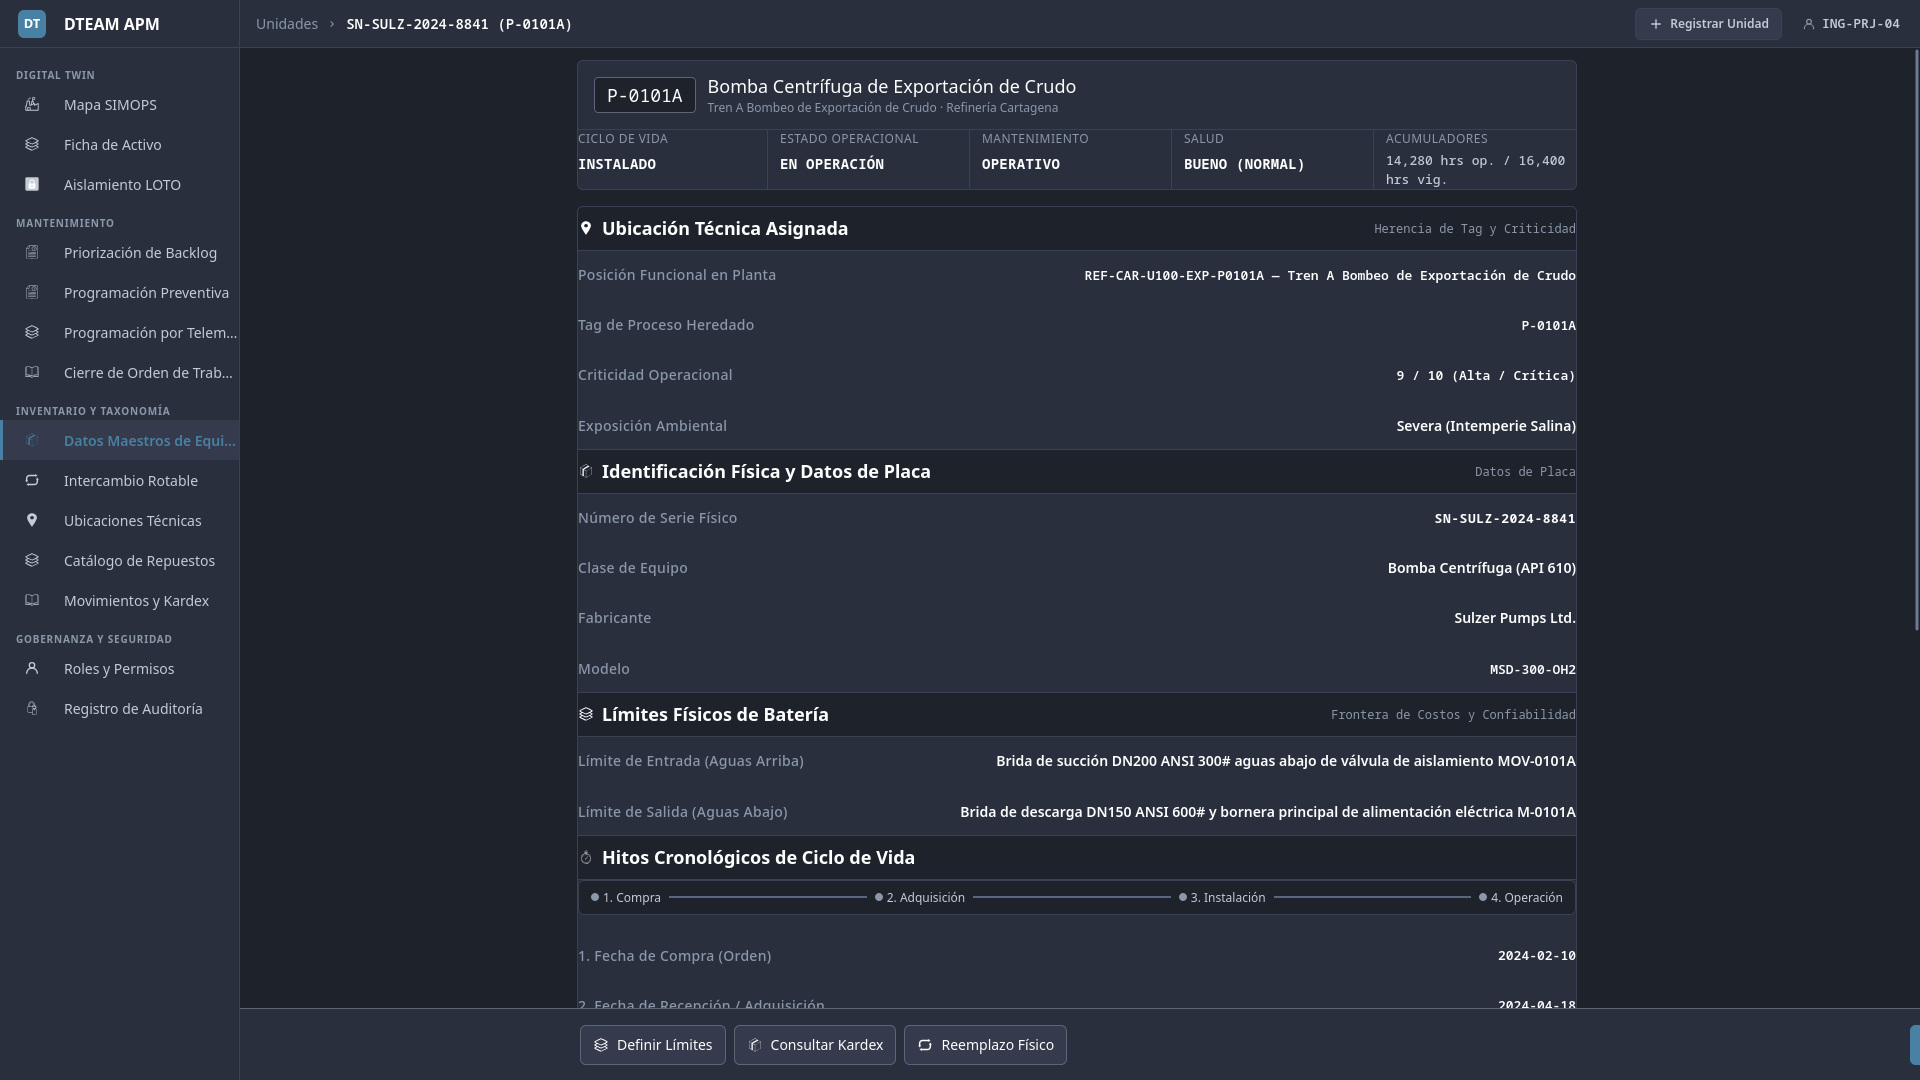
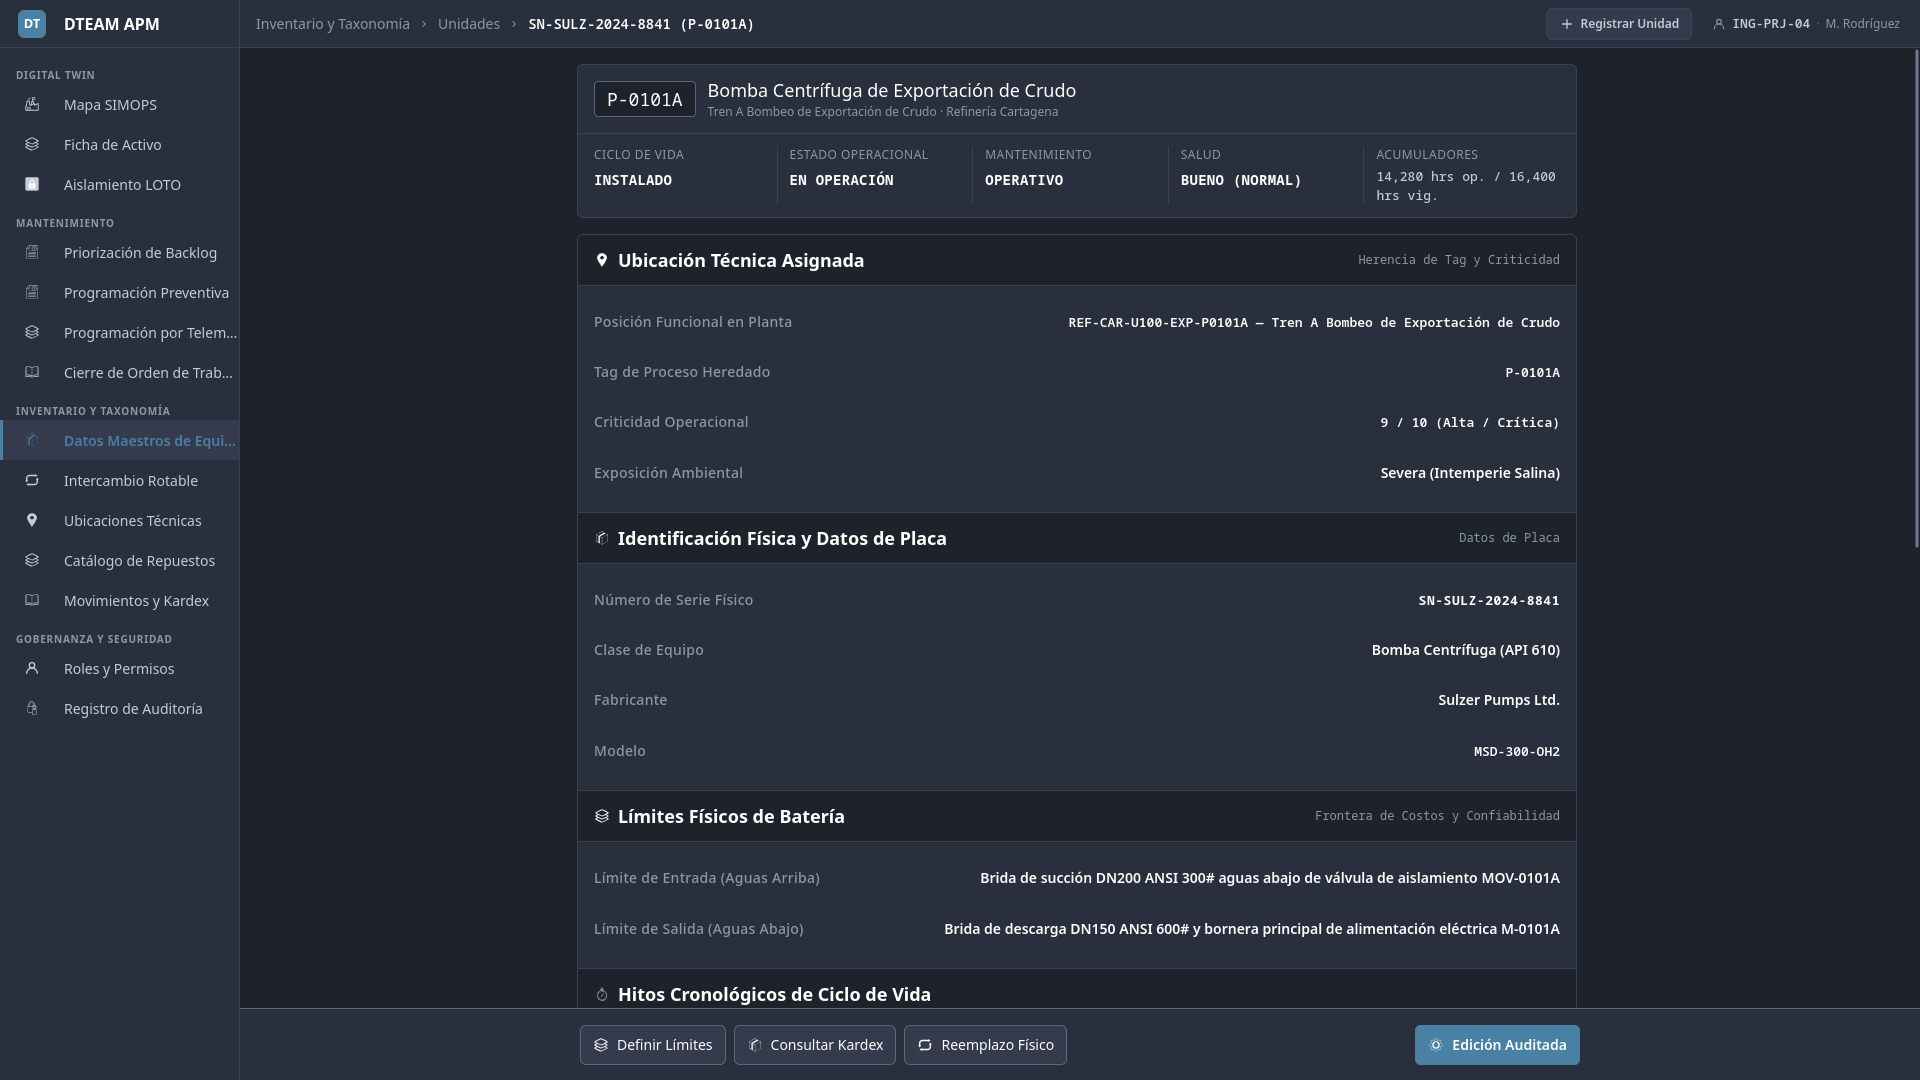
docs(ui-ux): register layout sidebar tokens and finalize screen specification sanitation

diff --git a/ui-ux/assets/tokens.css b/ui-ux/assets/tokens.css
@@ -73,6 +73,9 @@
   --dt-breakpoint-xl: 1920px;
 
   /* Structural layout and drawer dimensions */
+  --dt-layout-sidebar-width-expanded: 240px;
+  --dt-layout-sidebar-width-collapsed: 64px;
+  --dt-layout-table-row-height: 44px;
   --dt-layout-drawer-width-desktop: 440px;
   --dt-layout-drawer-width-tablet: 320px;
   --dt-layout-drawer-width: var(--dt-layout-drawer-width-tablet);

diff --git a/ui-ux/screens/mtto/SCR-MTTO-026.md b/ui-ux/screens/mtto/SCR-MTTO-026.md
@@ -13,7 +13,7 @@ user_stories:
   - MTTO-026
 use_cases:
   - UC-MTTO-026
-version: 1.2
+version: 1.3
 date: 2026-10-26
 status: Stable
 ---
@@ -47,7 +47,7 @@ status: Stable
 
 | ID | Control / Component | Visual Role / Content | Semantic Token | Architectural Role & Reference |
 | :--- | :--- | :--- | :--- | :--- |
-| `CMP-01` | Web Portal Shell & Sidebar | Collapsible navigation sidebar | Surface: `--dt-color-surface-base`<br>Border: `--dt-color-border-subtle` | Hosts global module navigation (Digital Twin, Maintenance, Inventory, Governance per [DT-UI-NAV-DOC-001](../../DT-UI-NAV-DOC-001.md)). Highlights "Priorización de Backlog" as the active route. Responsive widths governed in Section 8. |
+| `CMP-01` | Web Portal Shell & Sidebar | Collapsible navigation sidebar | Surface: `--dt-color-surface-base`<br>Border: `--dt-color-border-subtle` | Hosts global module navigation (Digital Twin, Maintenance, Inventory, Governance per [DT-UI-NAV-DOC-001](../../DT-UI-NAV-DOC-001.md)). Highlights "Backlog Prioritization" as the active route. Responsive widths governed in Section 8. |
 | `CMP-02` | Top Workstation Header | Breadcrumb trail, search, governance notifications, and user badge | Surface: `--dt-color-surface-card`<br>Border: `--dt-color-border-subtle` | Sticky header hosting breadcrumbs, quick search trigger (`Ctrl + K`), immutable audit log trigger, unconfigured criticality alert button (`CMP-06`), and standardized operator session badge. |
 | `CMP-03` | KPI Summary Metric Cards | 5-card interactive filter & summary bar | Surface: `--dt-color-surface-card`<br>Border: `--dt-color-border-subtle`<br>Radius: `--dt-radius-md` | Displays aggregate counters across the 4 RIME priority bands plus total pending count. Serves as the sole interactive priority band filter for the data grid, preventing redundant filter chip rows. Detailed in §5.1. |
 | `CMP-04` | Multi-Criteria Filter Toolbar | Flat canvas toolbar with dropdowns, search input, and inline grouping pill | Surface: `--dt-color-surface-base`<br>Controls: `--dt-color-surface-card`<br>Border: `--dt-color-border-subtle` | Hosts Functional Location hierarchy dropdown, Work Class selector, live text search, and the inline equipment grouping suggestion pill (`CMP-05`) directly on the canvas without outer box nesting or vertical layout shift. Specification in §5.2. |
@@ -449,8 +449,8 @@ public record RimeCalculationBreakdownDto(
 
 | Viewport / Breakpoint | Layout Organization | Ergonomic Rules |
 | :--- | :--- | :--- |
-| **Desktop Workstation**<br>($\ge 1920\text{px}$, `--dt-breakpoint-xl`) | Full workstation grid layout. Navigation sidebar expanded ($240\text{px}$); 5 summary KPI cards in a single row; 10-column data grid with all operational metadata visible without horizontal scrolling; slide-over audit drawer docks laterally (`--dt-layout-drawer-width-desktop`). | Optimized for mouse and keyboard navigation; row height $44\text{px}$; dense font sizing (`--dt-font-body-md`, $14\text{px}$); single-click row selection and compact contextual action menu (`···`). |
-| **Compact Desktop / Tablet Landscape**<br>($1280\text{px} - 1919\text{px}$, `--dt-breakpoint-lg`) | Navigation sidebar collapses to icon-only rail ($64\text{px}$); KPI summary cards remain in a 5-column fluid row; inline grouping pill wraps cleanly inside the filter toolbar; modals render centered. | Touch and pointer targets comply with $\ge 44\text{px}$; horizontal table scroll prevented by compacting secondary description width. |
+| **Desktop Workstation**<br>($\ge 1920\text{px}$, `--dt-breakpoint-xl`) | Full workstation grid layout. Navigation sidebar expanded (`--dt-layout-sidebar-width-expanded`); 5 summary KPI cards in a single row; 10-column data grid with all operational metadata visible without horizontal scrolling; slide-over audit drawer docks laterally (`--dt-layout-drawer-width-desktop`). | Optimized for mouse and keyboard navigation; row height `--dt-layout-table-row-height`; dense font sizing (`--dt-font-body-md`); single-click row selection and compact contextual action menu (`···`). |
+| **Compact Desktop / Tablet Landscape**<br>($1280\text{px} - 1919\text{px}$, `--dt-breakpoint-lg`) | Navigation sidebar collapses to icon-only rail (`--dt-layout-sidebar-width-collapsed`); KPI summary cards remain in a 5-column fluid row; inline grouping pill wraps cleanly inside the filter toolbar; modals render centered. | Touch and pointer targets comply with `--dt-control-height-sm`; horizontal table scroll prevented by compacting secondary description width. |
 | **Tablet Portrait / Secondary Terminal**<br>($768\text{px} - 1279\text{px}$, `--dt-breakpoint-md`) | Sidebar hidden into off-canvas drawer; KPI summary cards wrap into a 2-row grid; data grid prioritizes 7 core operational columns; bottom sticky confirmation bar docks above system chrome. | Touch targets $\ge 48\times 48\text{px}$ with $\ge 8\text{px}$ spacing; action menus expand for touch ergonomics. |
 
 ---

diff --git a/ui-ux/screens/inv/SCR-INV-005.md b/ui-ux/screens/inv/SCR-INV-005.md
@@ -19,7 +19,7 @@ use_cases:
   - "[[UC-INV-005]]"
 version: 1.1
 date: 2026-10-27
-status: In Review
+status: Stable
 ---
 
 # SCR-INV-005: Equipment Master Data Card
@@ -145,8 +145,8 @@ sequenceDiagram
 4. **Header Space Ergonomics, Unified Top Sheet & Single-Column Continuous Datasheet Layout (`CMP-02` to `CMP-12`):**
    * The catalog unit selector is embedded directly as an active breadcrumb segment (`CMP-02`) using a seamless text-link pattern (pure text with color transition on hover and underline when selected/open, opening a flat popover menu styled with design tokens without shadow elevation, removing redundant header dropdowns and reserving header controls strictly for primary navigation (`[+ Register Equipment Unit]` or `[< Back to Card]`) and user identity.
    * To prevent "Card Overload" (*Bento-Box Fatigue*), `CMP-03` and `CMP-04` are fused into a single unified top header sheet (`--dt-color-surface-card`, outer border with `--dt-color-border-subtle` separated internally only by a subtle hairline with `--dt-color-border-subtle`). Because action buttons are relocated to footer `CMP-12`, the asset header remains clean and uncrowded on both tablet and desktop.
-   * **Single-Column Continuous Datasheet Layout:** To eliminate horizontal squashing of technical titles (such as the Safety Critical Element designation card) and prevent large vacant lateral margins when constrained to `--dt-layout-form-max-width`, `CMP-05` through `CMP-11` are organized into a **single continuous vertical column stack** (`display: flex; flex-direction: column; width: 100%;`) across both Desktop Workstation ($\ge 1920\text{px}$) and Industrial Tablet Landscape ($1280\text{px} - 1919\text{px}$).
-   * **Edge-to-Edge Section Headers & Clear Control Background:** Each functional section features an edge-to-edge header band (`.card-header-row`, $100\%$ width, `--dt-color-surface-base`, delimited by horizontal borders with `--dt-color-border-subtle` without floating internal border radius). All editable form controls in Onboarding and Audited Edit mode bind to `--dt-color-surface-card` background (white in light theme, card dark in dark theme) so they never blend into section headers or look disabled.
+   * **Single-Column Continuous Datasheet Layout:** To eliminate horizontal squashing of technical titles (such as the Safety Critical Element designation card) and prevent large vacant lateral margins when constrained to `--dt-layout-form-max-width`, `CMP-05` through `CMP-11` are organized into a **single continuous vertical column stack** across both Desktop Workstation and Industrial Tablet Landscape viewports.
+   * **Edge-to-Edge Section Headers & Clear Control Background:** Each functional section features an edge-to-edge header band ($100\%$ width, `--dt-color-surface-base`, delimited by horizontal borders with `--dt-color-border-subtle` without floating internal border radius). All editable form controls in Onboarding and Audited Edit mode bind to `--dt-color-surface-card` background (white in light theme, card dark in dark theme) so they never blend into section headers or look disabled.
    * **Subtle Horizontal Row Parity:** Both Inspection and Onboarding/Edit modes share the exact same horizontal row structure (key on the left, value/control on the right) with invariant minimum height `--dt-control-height-lg` (fulfilling `--dt-touch-target-mobile`). When transitioning between View and Onboarding, the right-hand value smoothly converts into the editable control in place without vertical jumping or height doubling. Permanent helper text is eliminated in normal state and displayed strictly as active contextual feedback upon validation conflict (`AF-001` through `AF-005`).
    * **Standardized Custom Popover Dropdowns & Date Pickers:** Form selectors for Functional Location (`CMP-05`), Equipment Class (`CMP-06`), and SCE Designation (`CMP-08`) use standardized custom Popover Dropdowns matching the breadcrumb selector pattern, maintaining hidden `<select>` elements for programmatic binding. The 4 milestone date pickers in `CMP-09` are standardized with monospace data typography (`--dt-font-mono-data`) and system focus indicators.
    * Internal horizontal dividing lines under individual data rows are eliminated in favor of clean vertical spacing (`--dt-space-2`), eliminating the striped-table visual artifact.

diff --git a/ui-ux/screens/inv/SCR-INV-025.md b/ui-ux/screens/inv/SCR-INV-025.md
@@ -30,7 +30,7 @@ status: Stable
   * **Warehouse Manager:** Reconciles rotable inventory movements and receives dismantled units into the repair workshop.
   * **Maintenance Supervisor:** Approves equipment substitutions associated with high-priority corrective work orders.
 * **Operational Context:** Accessible in field environments on rugged industrial tablets during physical equipment dismounting, and in control offices on desktop workstations. Detailed responsive profiles and breakpoints are specified in Section 8.
-* **Mode of Operation:** Contextual Transactional Modal Task. Deploys as an interruptive dialog on desktop workstations and adapts to a touch-first bottom sheet on mobile and portrait tablet viewports. Excludes continuous process telemetry manipulation, focusing strictly on asset lifecycle state transitions, barcode scanning, and cryptographic audit persistence. Detailed interaction rules and dimensions are specified in §5.2 and §8.
+* **Mode of Operation:** Contextual Transactional Modal Task. Deploys as a centered modal dialog across workstation and tablet viewports. Excludes continuous process telemetry manipulation, focusing strictly on asset lifecycle state transitions, barcode scanning, and cryptographic audit persistence. Detailed interaction rules and dimensions are specified in §5.2 and §8.
 
 ---
 
@@ -337,8 +337,8 @@ public record AssetSwapCompletedEvent(
 
 1. **Optical Barcode & NFC Scanner Interop (`IBarcodeScannerInterop`):**
    * Encapsulates hardware barcode scanners and optical camera streams, parsing Code 128 / QR / DataMatrix serial tags and dispatching selection events without UI thread blocking.
-2. **Tactile Bottom Sheet Gesture Interop (`IDrawerGestureInterop`):**
-   * Handles drag gestures and discrete single-tap toggling between natural resting height (`--dt-layout-bottom-sheet-height-initial`) and expanded ceiling (`--dt-layout-bottom-sheet-height-expanded`) with tactile threshold snapping.
+2. **Modal Focus & Keyboard Trap Interop (`IModalFocusInterop`):**
+   * Traps keyboard focus (`Tab` / `Shift+Tab`) within the active modal dialog container, binds `Escape` keyboard dismissal, and manages backdrop click outside dismissal.
 3. **Web Cryptography SHA-256 Bridge (`ICryptoInterop`):**
    * Computes candidate `PayloadHash` asynchronously in a dedicated Web Worker to preview unalterable cryptographic chaining in `CMP-08`.
 4. **Encrypted Offline Storage Interop (`IOfflineStorage`):**

diff --git a/ui-ux/DT-UI-DS-DOC-001.md b/ui-ux/DT-UI-DS-DOC-001.md
@@ -77,6 +77,9 @@ To guarantee predictability in responsive split-screen viewports, transactional 
 
 | Layout Token | Value | Target Breakpoint / Context | Functional Justification |
 | :--------------------------------------- | :------------------------------------: | :----------------------------------------------------------- | :---------------------------------------------------------------------------------------------------------------------------------------------------------------------- |
+| --dt-layout-sidebar-width-expanded       | 240px                                  | --dt-breakpoint-xl ($\ge 1920\text{px}$)                     | Fixed navigation sidebar width in expanded desktop workstation layout ([DT-UI-NAV-DOC-001](DT-UI-NAV-DOC-001.md), [SCR-MTTO-026](screens/mtto/SCR-MTTO-026.md)). |
+| --dt-layout-sidebar-width-collapsed      | 64px                                   | --dt-breakpoint-lg ($1280\text{px} - 1919\text{px}$)         | Collapsed icon-only navigation rail width on compact desktop and tablet landscape viewports ([DT-UI-NAV-DOC-001](DT-UI-NAV-DOC-001.md), [SCR-MTTO-026](screens/mtto/SCR-MTTO-026.md)). |
+| --dt-layout-table-row-height             | 44px                                   | Shared Component                                             | Ergonomic dense table row height for enterprise workstation grids ([SCR-MTTO-026](screens/mtto/SCR-MTTO-026.md)). |
 | --dt-layout-drawer-width-desktop         | 440px                                  | --dt-breakpoint-xl ($\ge 1920\text{px}$)                     | Fixed lateral inspection drawer on high-resolution monitors; preserves multi-column tabular visibility and backlog split views. |
 | --dt-layout-drawer-width-tablet          | 320px                                  | --dt-breakpoint-lg ($1280\text{px} - 1919\text{px}$)         | Fixed contextual side panel on tablet landscape; strictly enforces $\ge 75\%$ viewport allocation ($960\text{px}$) for the 2D spatial Digital Twin canvas. |
 | --dt-layout-drawer-width                 | --dt-layout-drawer-width-tablet        | Responsive Semantic Base                                     | Semantic drawer width variable; defaults to tablet dimension and dynamically resolves to `--dt-layout-drawer-width-desktop` on desktop displays ($\ge 1920\text{px}$). |

diff --git a/TODO.md b/TODO.md
@@ -50,9 +50,9 @@ All documentation and specifications referenced here reside in `adso-dteam-docs/
   - [x] Field modal / drawer for atomic 1:1 rotable equipment exchange.
   - [x] Canonical specification finalized: [`SCR-INV-025.md`](ui-ux/screens/inv/SCR-INV-025.md) (v1.4 Stable).
 
-- [ ] **SCR-INV-005: Equipment Master Data Card (Technical Data Sheet)**
+- [x] **SCR-INV-005: Equipment Master Data Card (Technical Data Sheet)**
   - [x] Pre-flight Use Case Audit and CAP execution: [`UC-INV-005.md`](domain-models/use-cases/inv/UC-INV-005.md) (v1.1 Stable / PASSED).
-  - [ ] Draft canonical specification for Level 3 equipment detail, operational telemetry bindings, and nameplate specs: [`SCR-INV-005.md`](ui-ux/screens/inv/SCR-INV-005.md) (v1.1 In Review).
+  - [x] Canonical specification finalized: [`SCR-INV-005.md`](ui-ux/screens/inv/SCR-INV-005.md) (v1.1 Stable).
   - [x] Execute Tier 0/1/2 UI audit, capture 1080p screenshot, and persist report (`PASSED`).
 
 - [ ] **SCR-INV-027: Functional Locations Hierarchy Tree**
